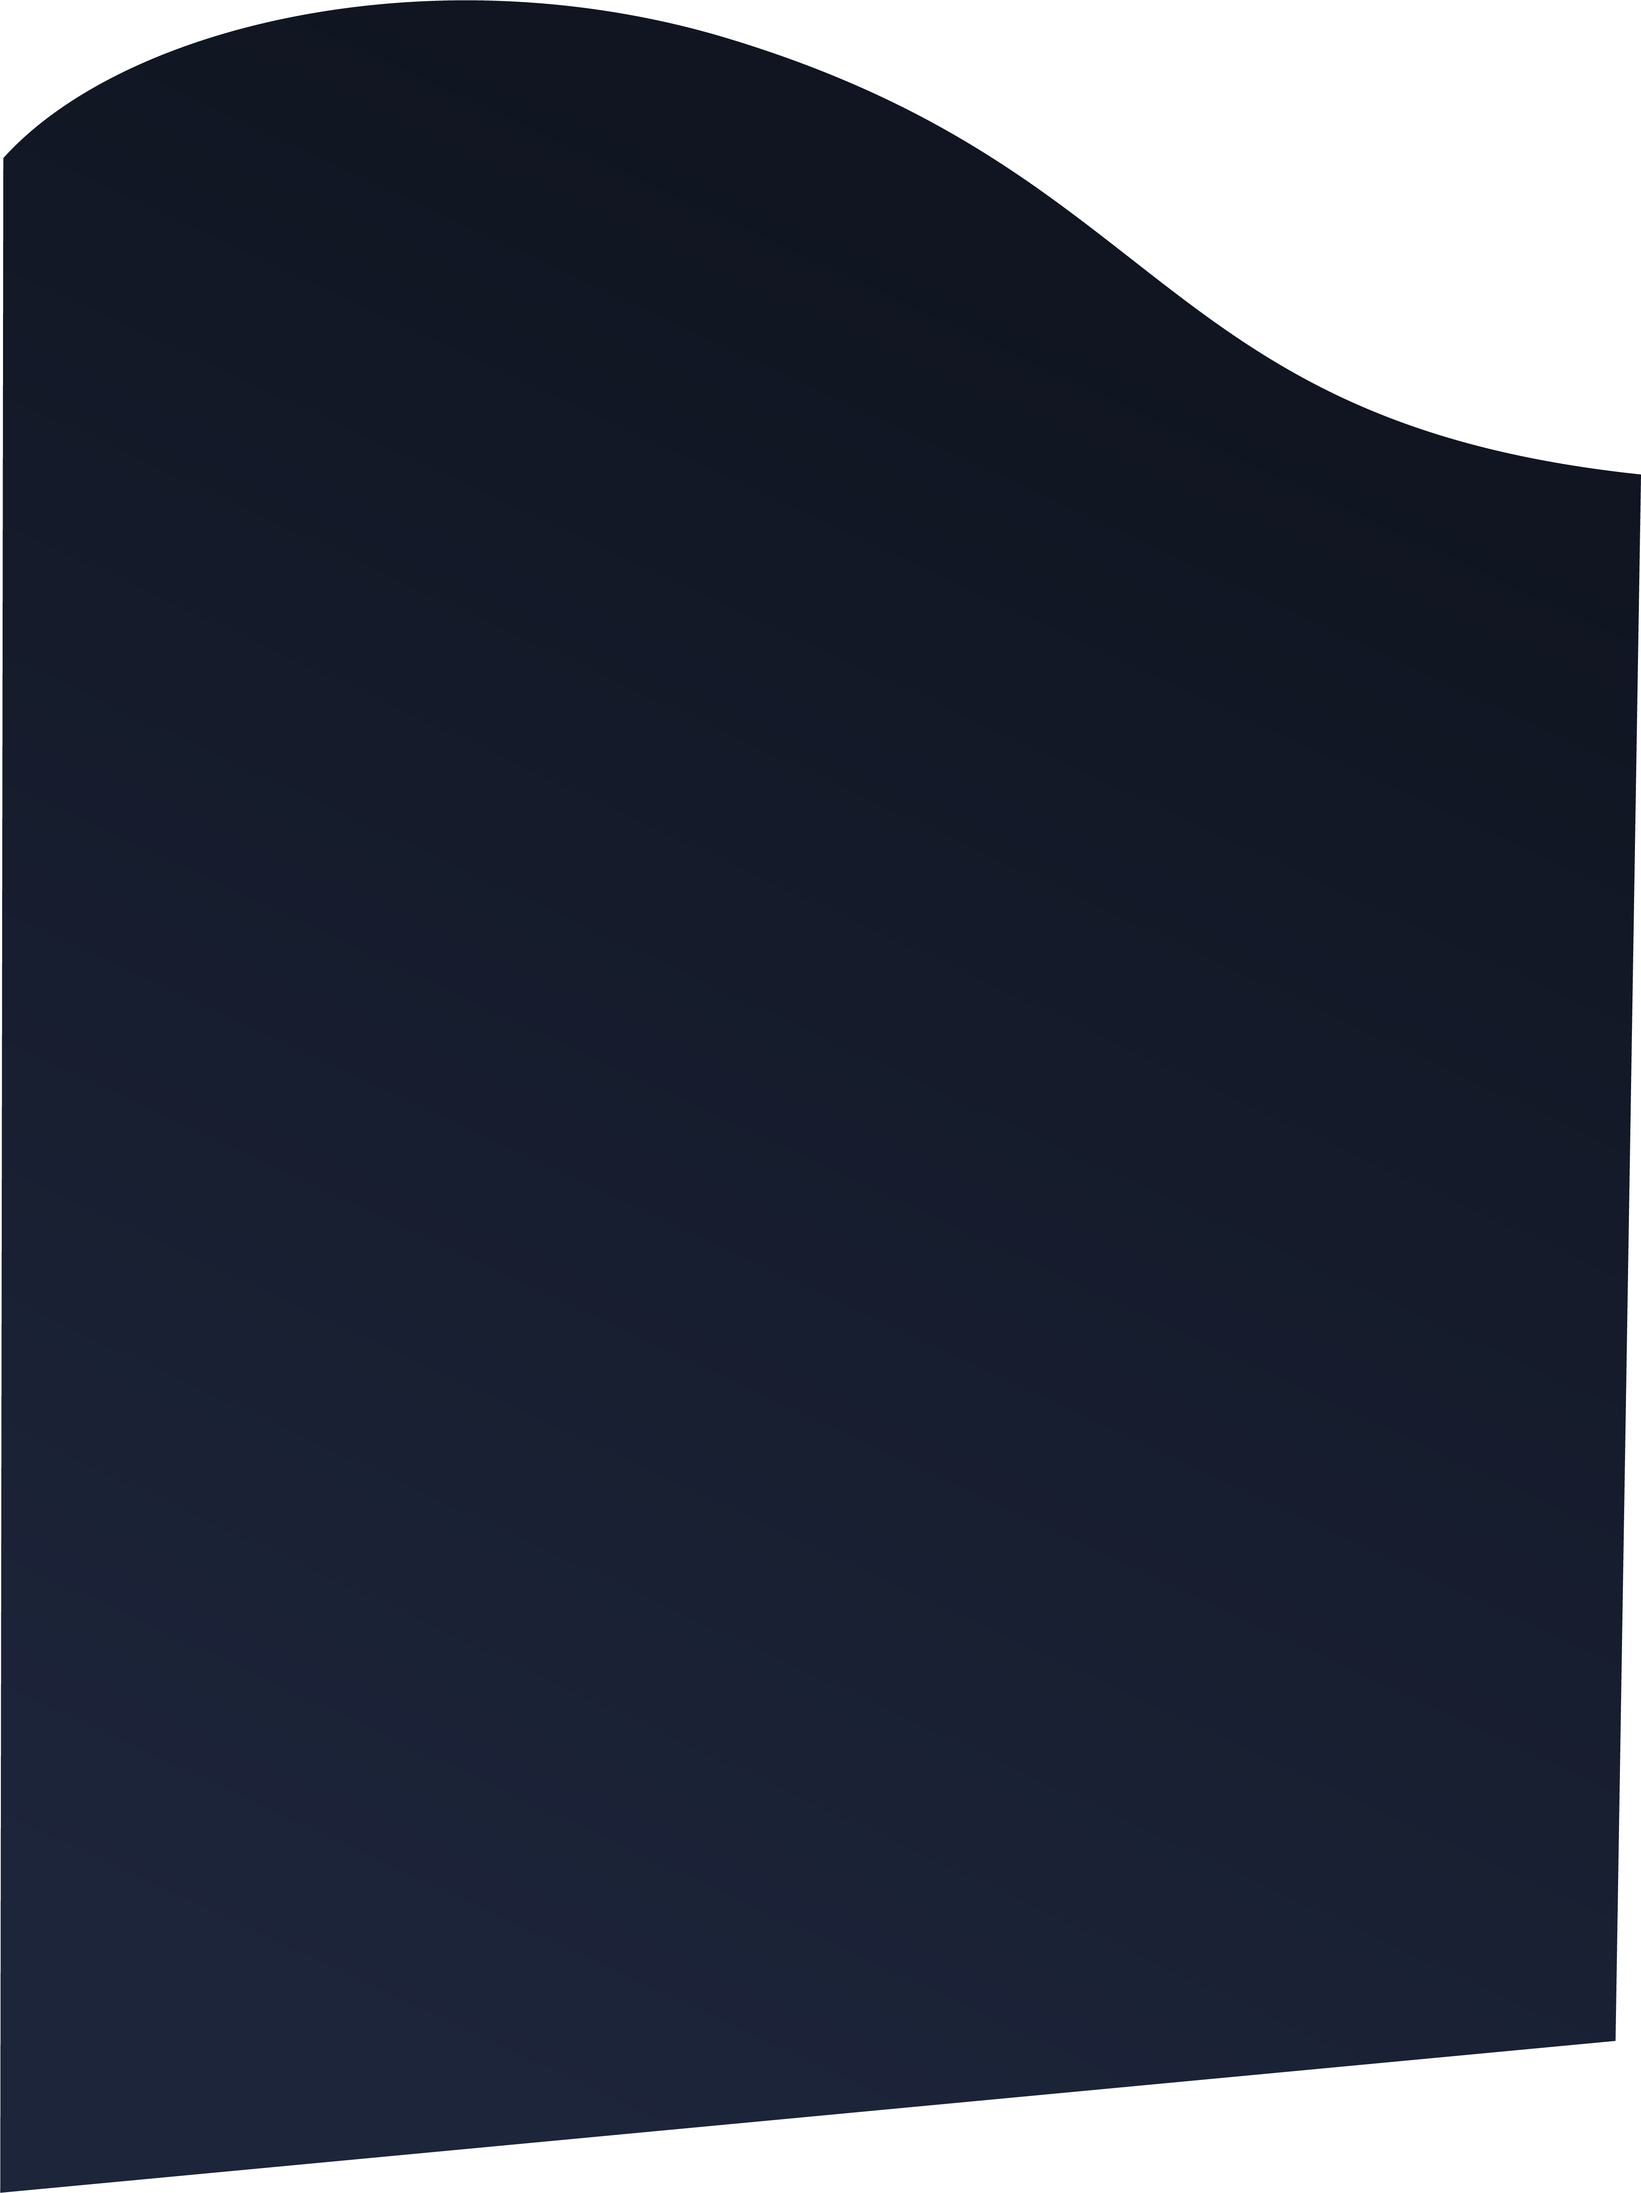
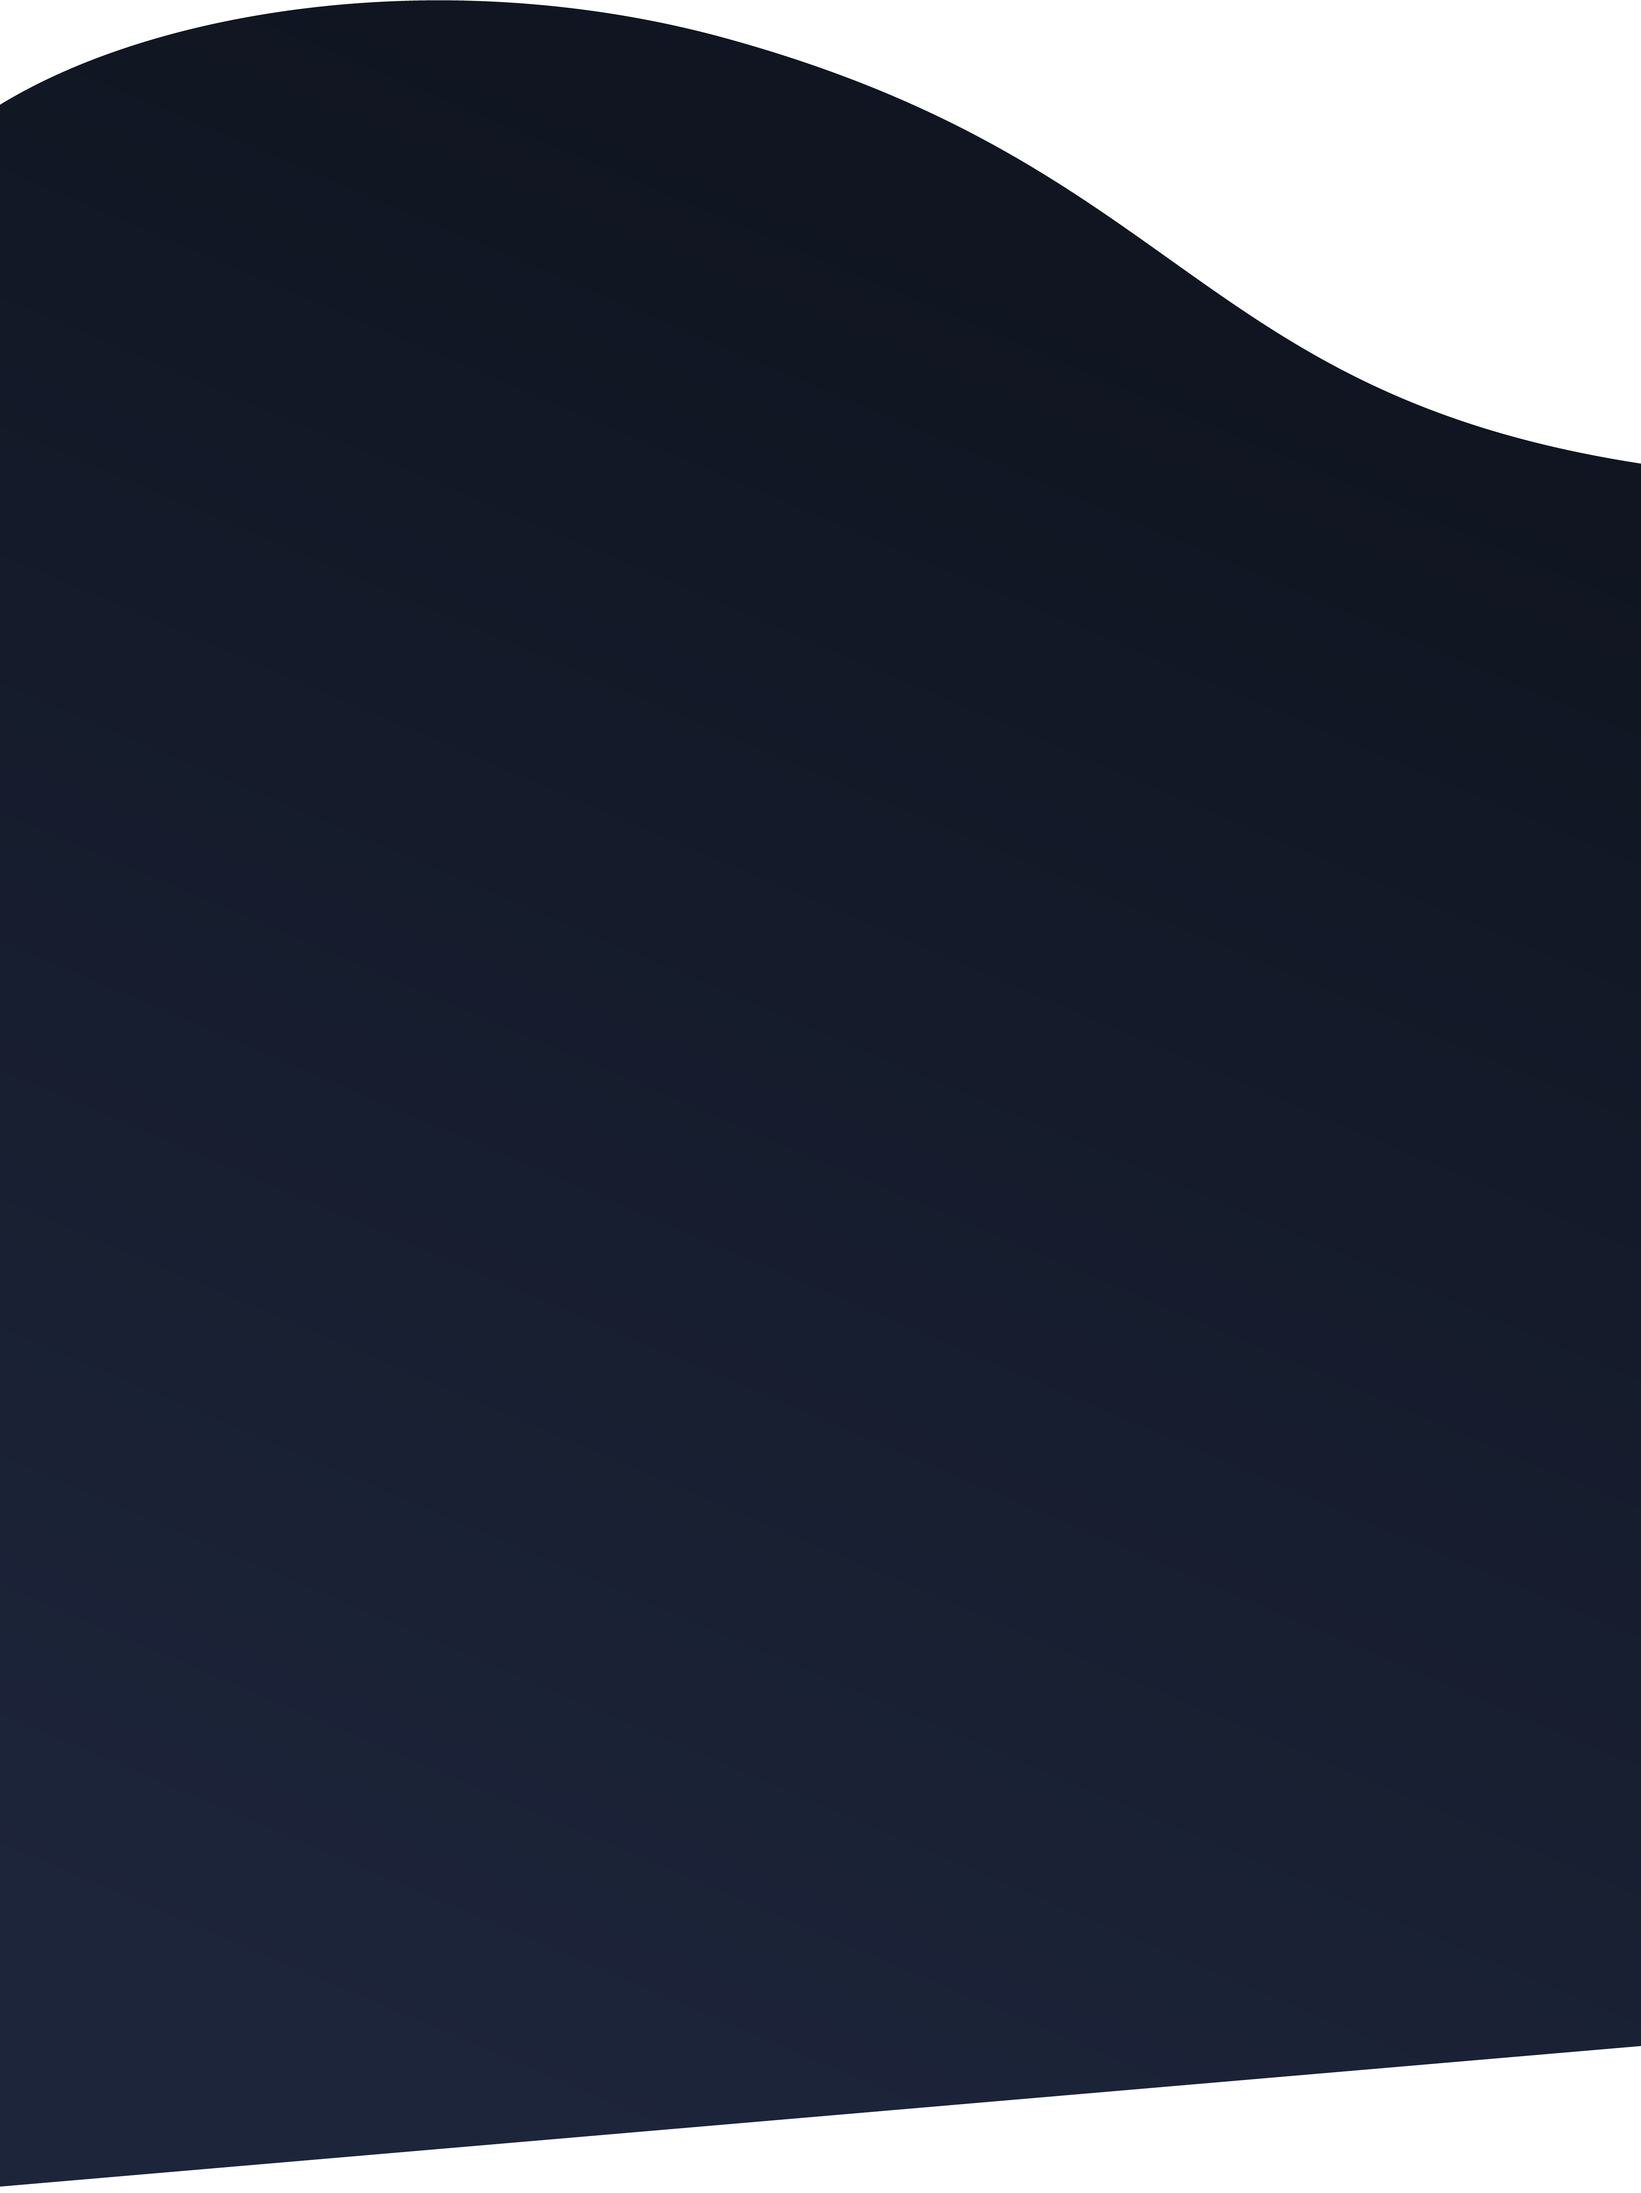
Tipo De Camiones

diff --git a/css/style.css b/css/style.css
@@ -521,3 +521,14 @@ main .content-center .presale {
 .section .column a img{
   max-width: 200px;
 }
+/* Tipo De Camiones */
+.content-center .many_2{
+  position: absolute;
+  background-image: url(/assets/Recurso34_1.png);
+  background-repeat: no-repeat;
+  background-size: cover;
+  width: 100%;
+  height: 150vh;
+  top: 580%;
+  z-index: -3;
+}

diff --git a/index.html b/index.html
@@ -205,7 +205,9 @@ Legendario
           </div>
         <div class="sil2"></div>
       </div>
-      <div class="many_2"></div>
+      <div class="many_2">
+        <div class="curve"></div>
+      </div>
       <div class="cloudz">
         <span class="cloud-one">
           <svg
